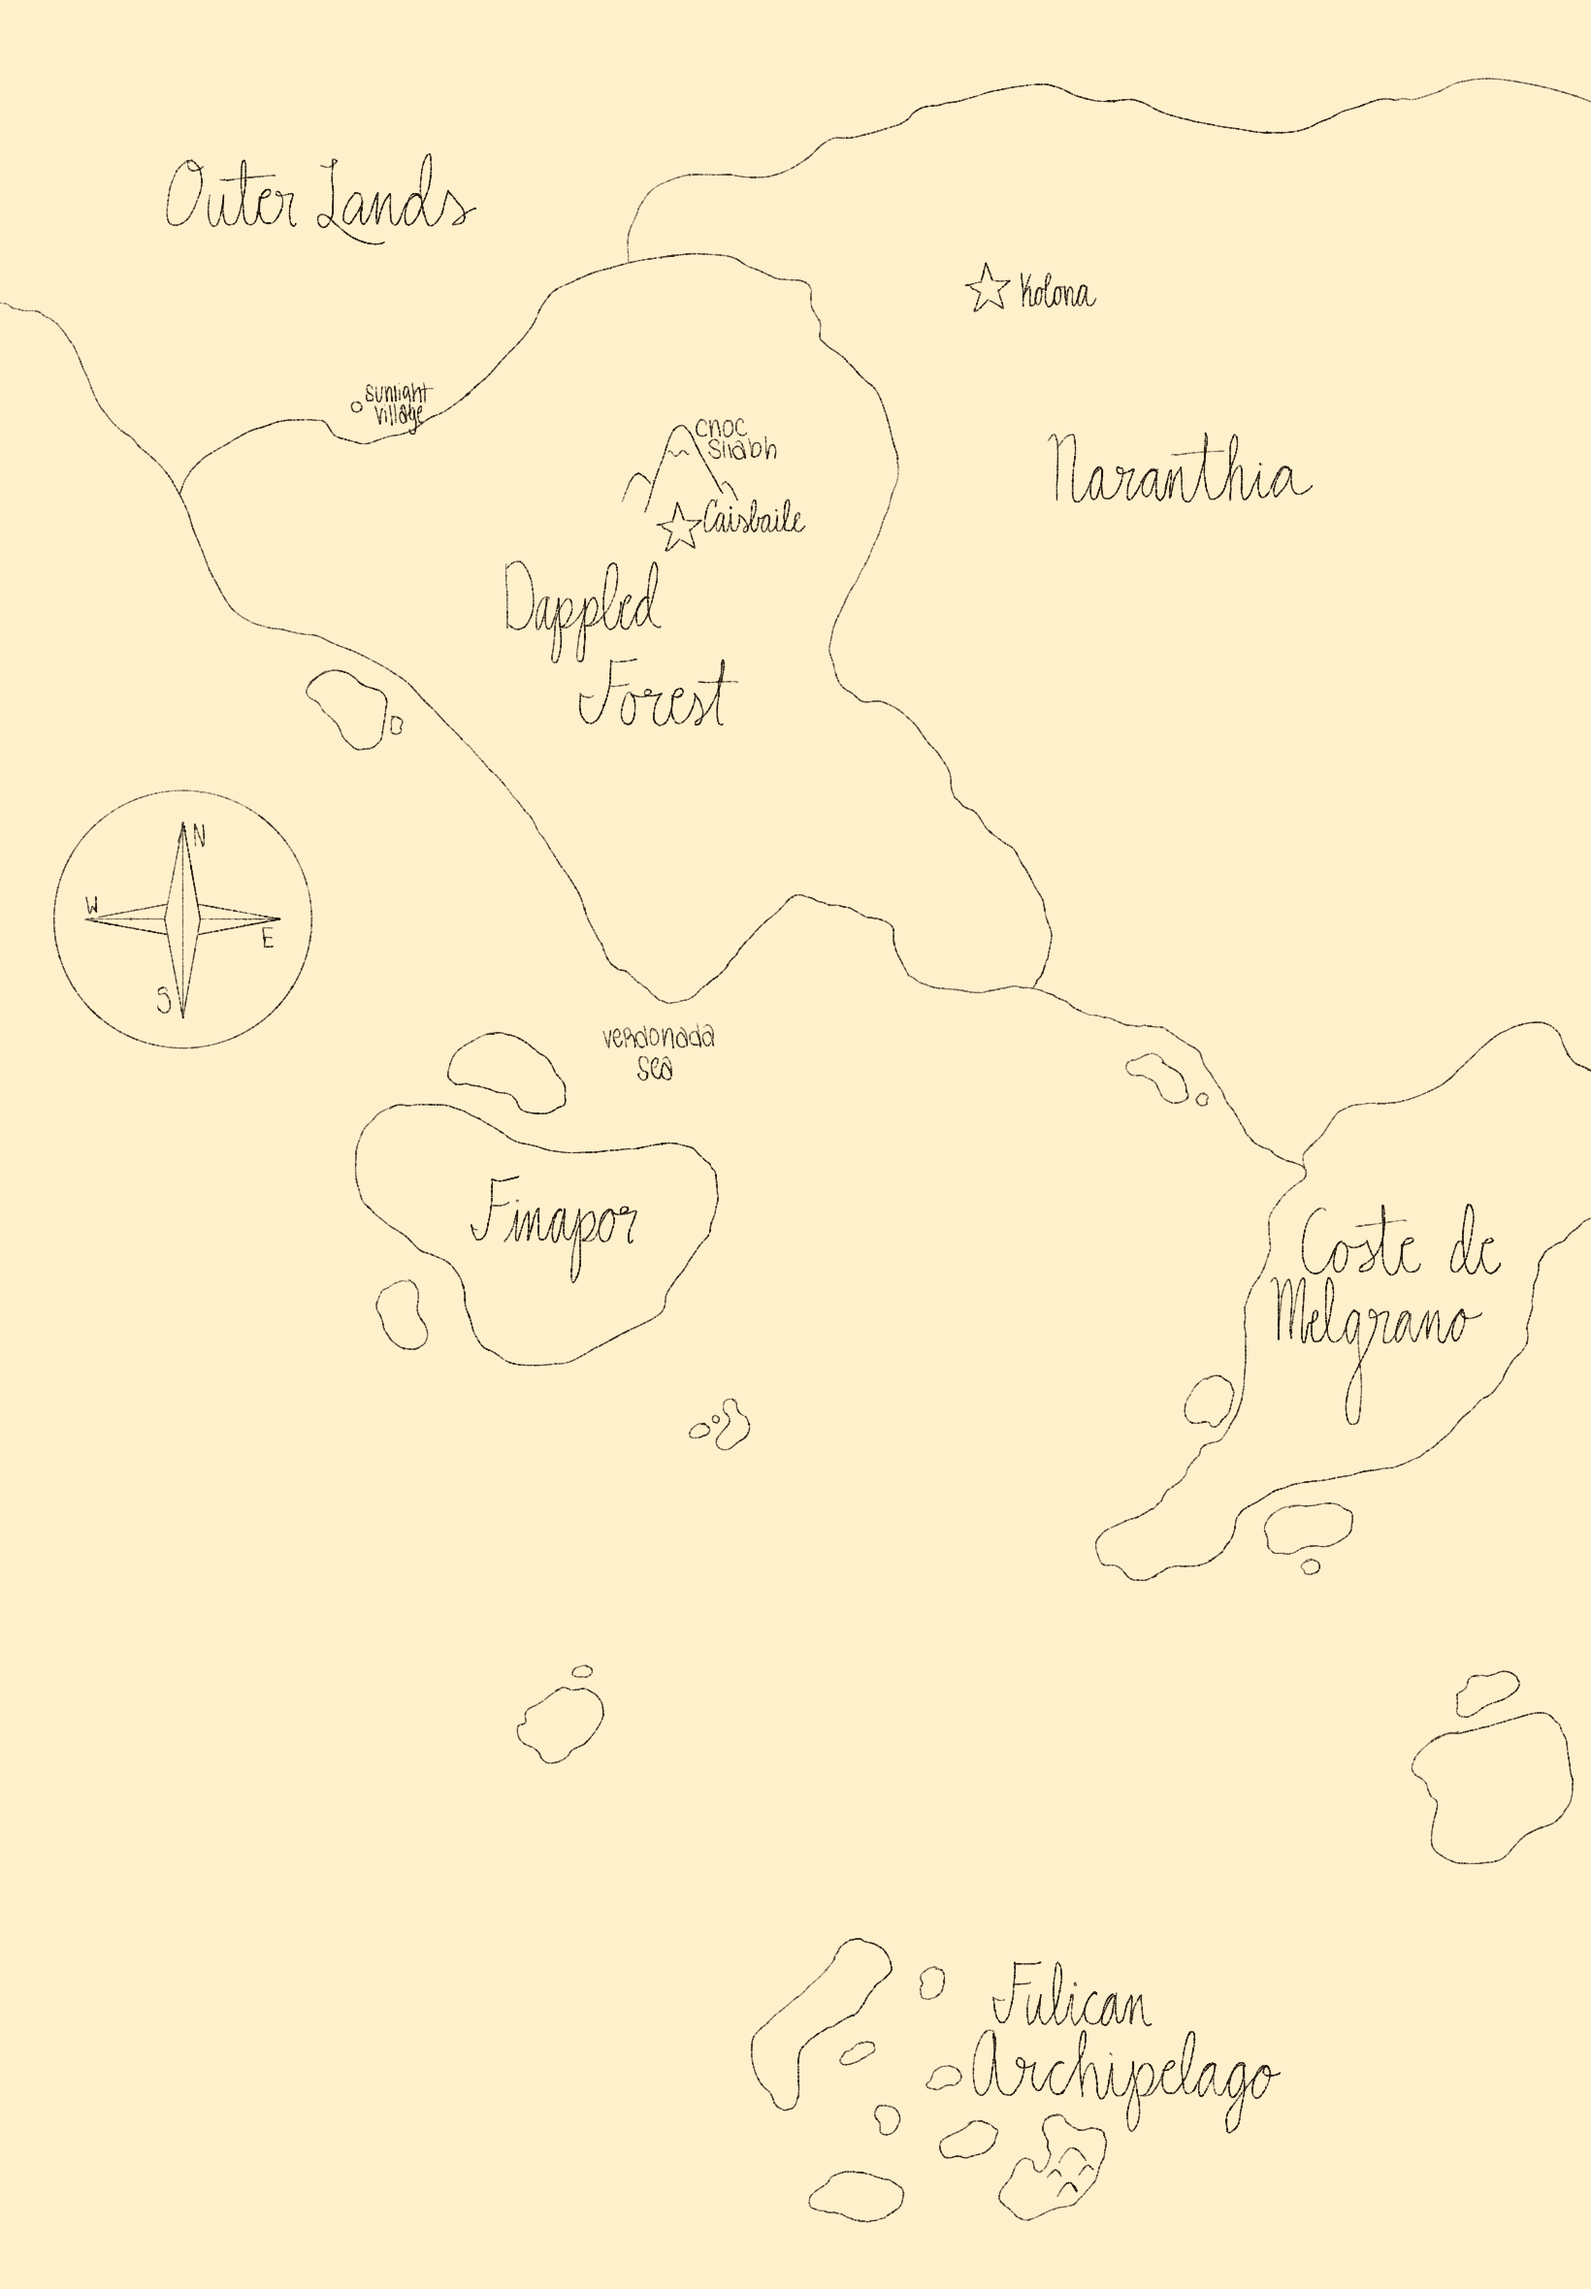
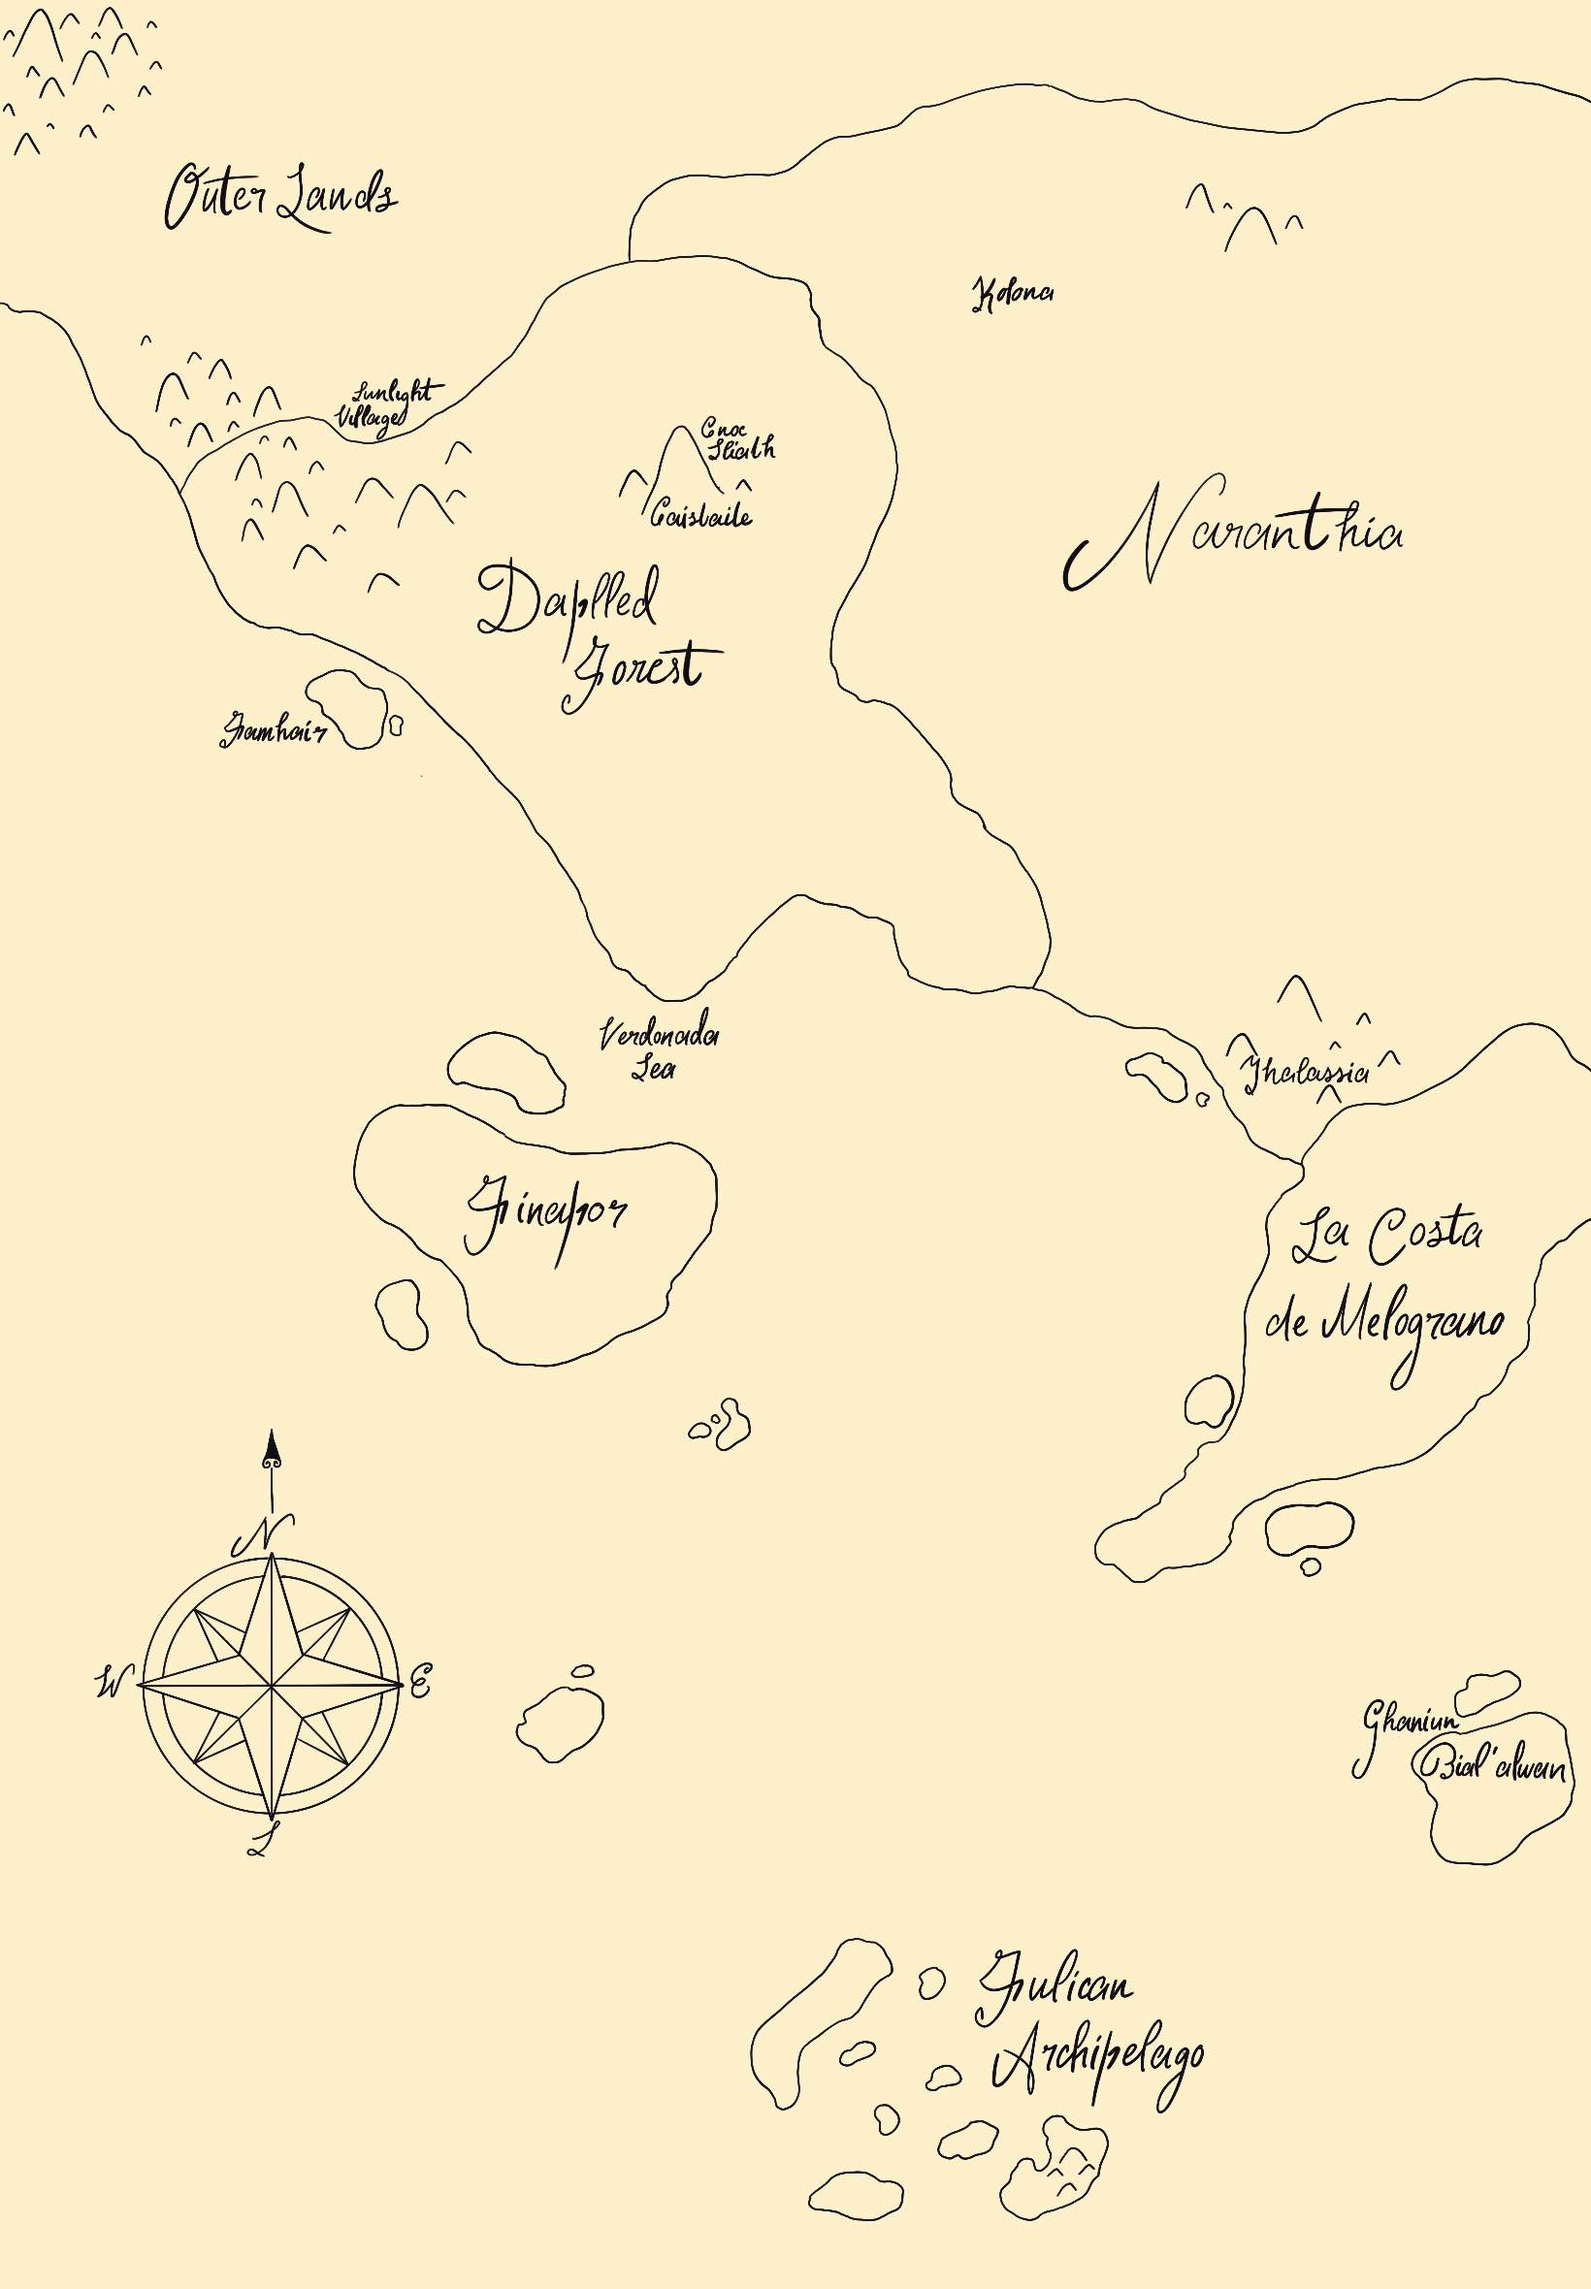
random edits

diff --git a/dappled-forest.html b/dappled-forest.html
@@ -84,7 +84,7 @@
 
                     <div class="sub-sidebar-left">
                         <p style="line-height: 0; text-align: center">World Map</p>
-                        <div class="image-jail" style="width: 100%"><a href="images/maps/tir-na-nog-map.png"><img src="images/maps/tir-na-nog-map.png" alt="A map of a continent, as well as several different island nations. There is the Outer Lands in the top left corner, with Sunlight Village labelled on the edge of the Dappled Forest (Capitol: Caisbaile). Next to the Dappled Forest is the large kingdom of Naranthia (Capitol: Kolona). South of Naranthia is a large peninsula called Coaste de Melgrano. South of the Dappled Forest is the Verdonada Sea, which is between that and Finapor. At the bottom of the map is a small collection of islands called the Fulican Archipelago."></a></div>
+                        <div class="image-jail" style="width: 100%"><a href="images/maps/tir-na-nog-map.png"><img src="images/maps/tir-na-nog-map.png" alt="A map of a continent, as well as several different island nations. There is the Outer Lands in the top left corner, with Sunlight Village labelled on the edge of the Dappled Forest (Capitol: Caisbaile), off the coast of which is an island labeled Famhair. Next to the Dappled Forest is the large kingdom of Naranthia (Capitol: Kolona). South of Naranthia is a large peninsula called Coaste de Melgrano, and southeast of that is Ghaniun Bial'alwan. South of the Dappled Forest is the Verdonada Sea, which is between that and Finapor. At the bottom of the map is a small collection of islands called the Fulican Archipelago."></a></div>
                     </div>
                 </div>
 

diff --git a/elysium.html b/elysium.html
@@ -27,12 +27,13 @@
             <div class="misc-container">
                 <div class="sidebar-left">
                     <div class="sub-sidebar-left">
-                        <!-- This is where the flag and the royal seal would go... IF I HAD THEM /ref -->
+                        <!-- This is where the flag would go... IF I HAD ONE /ref -->
                         <div class="sub-sidebar-left"><p style="text-align: center">The Flag</p></div>
 
                         <div class="sub-sidebar-left">
                             <p style="text-align: center">The Royal Seal</p>
                             <div class="image-jail" style="align-self: center; width: 100%"><img src="images/elysium/moon-seal.jpg" alt="A blue square surrounded by a white border. In the center is a slightly stylized version of the Korean hangul 문." style="width: 100%"></div>
+                        </div>
                     </div>
 
                     <div class="sub-sidebar-left">

diff --git a/index.html b/index.html
@@ -68,8 +68,8 @@
                 </div>
             </div>
 
-            <div class="misc-container-two" style="padding-bottom: 30px; flex-direction: column; line-height: 1">
-                <h3 style="text-align: center">Other Locations</h3>
+            <div class="misc-container-two" style="padding-bottom: 30px; line-height: 1; align-items: center; flex-direction: column">
+                <h3 style="text-align: center; margin: 10px">Other Kingdoms</h3>
                 <p style="text-align: center; padding: 0; line-height: 0"><a href="outer-lands.html">The Outer Lands</a></p>
                 <p style="text-align: center; padding: 0; line-height: 0"><a href="other-kingdoms/ghaniun-bial-alwan.html">Ghaniun Bial'alwan</a></p>
             </div>
